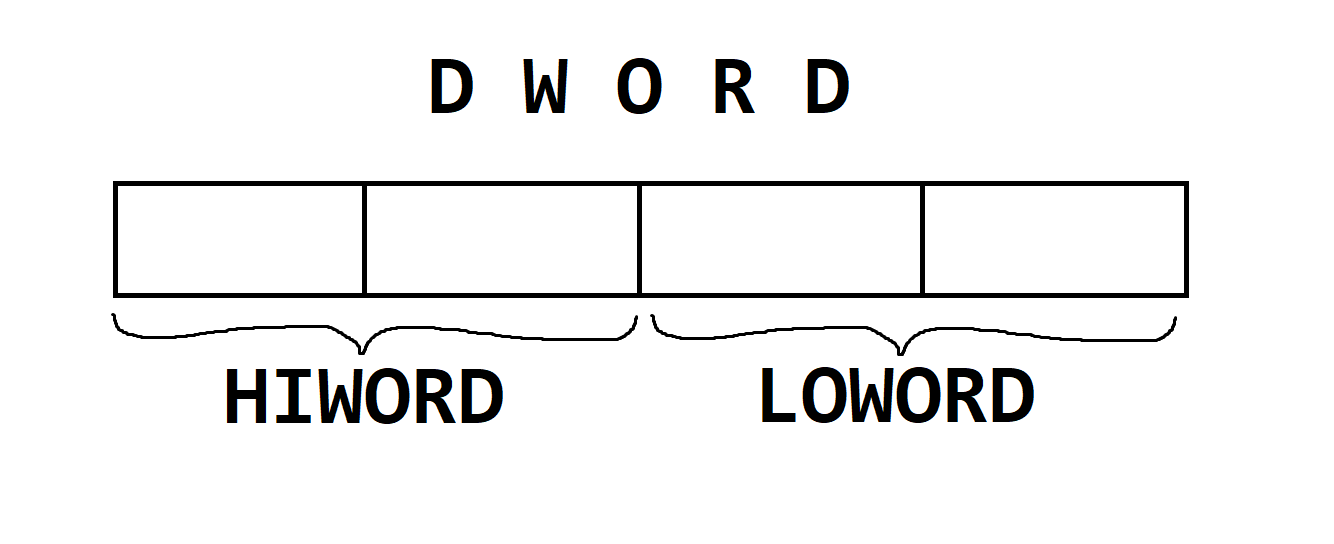
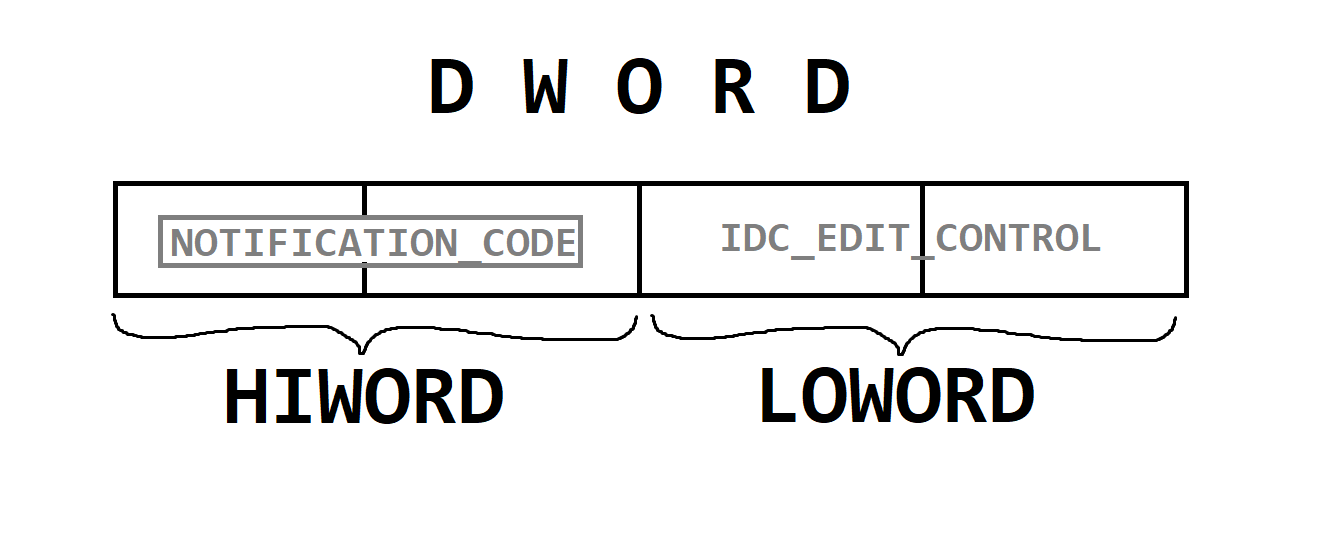
ComboBox in progress

Changed region(s): [[0.0922, 0.375, 0.461, 0.5], [0.5225, 0.4062, 0.8298, 0.5], [0.6762, 0.4688, 0.7069, 0.5]]

diff --git a/WinAPI/ComboBox/main.cpp b/WinAPI/ComboBox/main.cpp
@@ -1,0 +1,40 @@
+//ComboBox
+#include<Windows.h>
+#include"resource.h"
+
+CONST CHAR* g_COMBO_BOX_ITEMS[] = { "This", "is", "my", "First", "Combo", "Box" };
+
+BOOL CALLBACK DlgProc(HWND hwnd, UINT uMsg, WPARAM wParam, LPARAM lParam);
+
+INT WINAPI WinMain(HINSTANCE hInstance, HINSTANCE hPrevInst, LPSTR lpCmdLine, INT nCmdShow)
+{
+	DialogBoxParam(hInstance, MAKEINTRESOURCE(IDD_DIALOG1), NULL, (DLGPROC)DlgProc, 0);
+	return 0;
+}
+
+BOOL CALLBACK DlgProc(HWND hwnd, UINT uMsg, WPARAM wParam, LPARAM lParam)
+{
+	switch (uMsg)
+	{
+	case WM_INITDIALOG:
+	{
+		HICON hIcon = LoadIcon(GetModuleHandle(NULL), MAKEINTRESOURCE(IDI_ICON1));
+		SendMessage(hwnd, WM_SETICON, 0, (LPARAM)hIcon);
+
+		HWND hCombo = GetDlgItem(hwnd, IDC_COMBO1);
+		for (int i = 0; i < sizeof(g_COMBO_BOX_ITEMS) / sizeof(g_COMBO_BOX_ITEMS[0]); i++)
+		{
+			SendMessage(hCombo, CB_ADDSTRING, 0, (LPARAM)g_COMBO_BOX_ITEMS[i]);
+			//CB_ - ComboBox;
+		}
+		SendMessage(hCombo, CB_SETCURSEL, 0, 0);
+		//CB_SETCURSEL - ComboBox Set Current Selection
+	}
+		break;
+	case WM_COMMAND:
+		break;
+	case WM_CLOSE:
+		EndDialog(hwnd, 0);
+	}
+	return FALSE;
+}

diff --git a/WinAPI/ComboBox/resource.h b/WinAPI/ComboBox/resource.h
@@ -1,0 +1,18 @@
+//{{NO_DEPENDENCIES}}
+// Microsoft Visual C++ generated include file.
+// Used by Resource.rc
+//
+#define IDD_DIALOG1                     101
+#define IDI_ICON1                       103
+#define IDC_COMBO1                      1001
+
+// Next default values for new objects
+// 
+#ifdef APSTUDIO_INVOKED
+#ifndef APSTUDIO_READONLY_SYMBOLS
+#define _APS_NEXT_RESOURCE_VALUE        104
+#define _APS_NEXT_COMMAND_VALUE         40001
+#define _APS_NEXT_CONTROL_VALUE         1002
+#define _APS_NEXT_SYMED_VALUE           101
+#endif
+#endif
